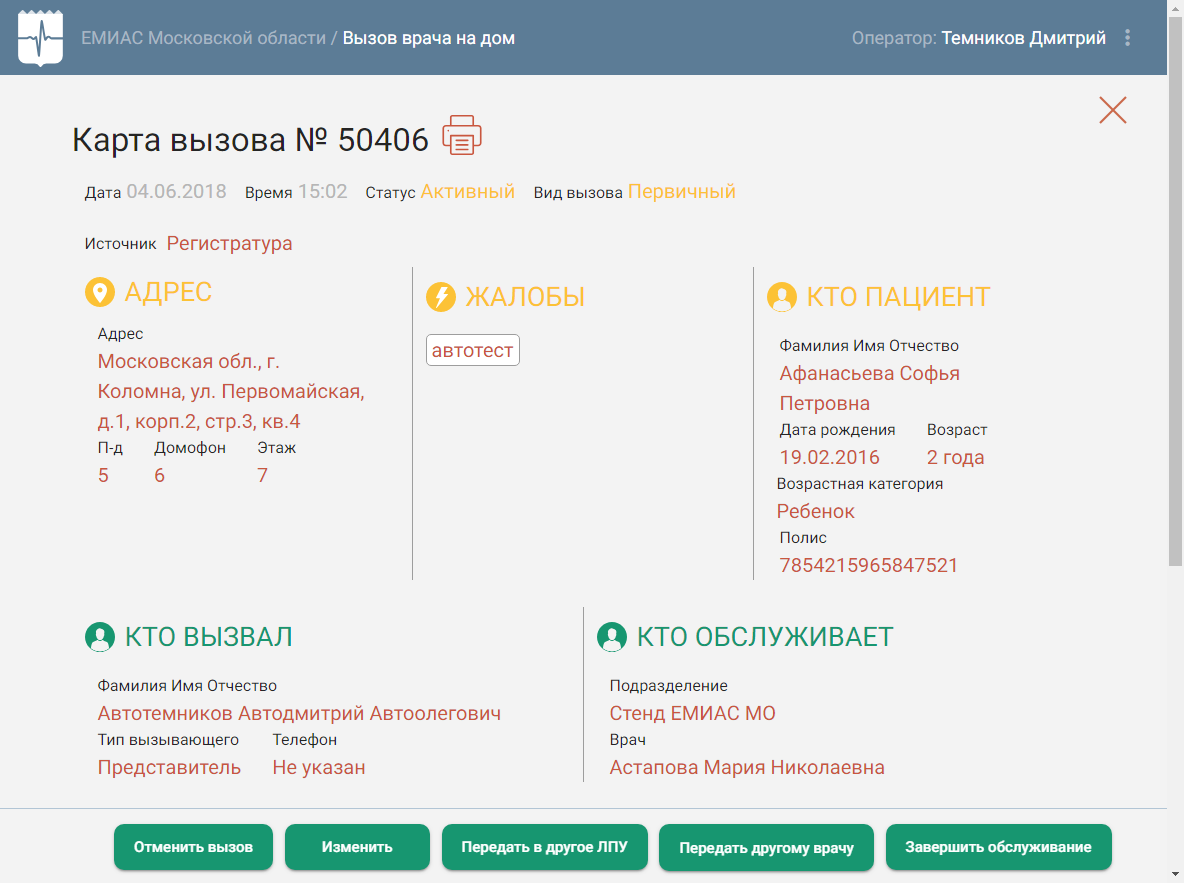
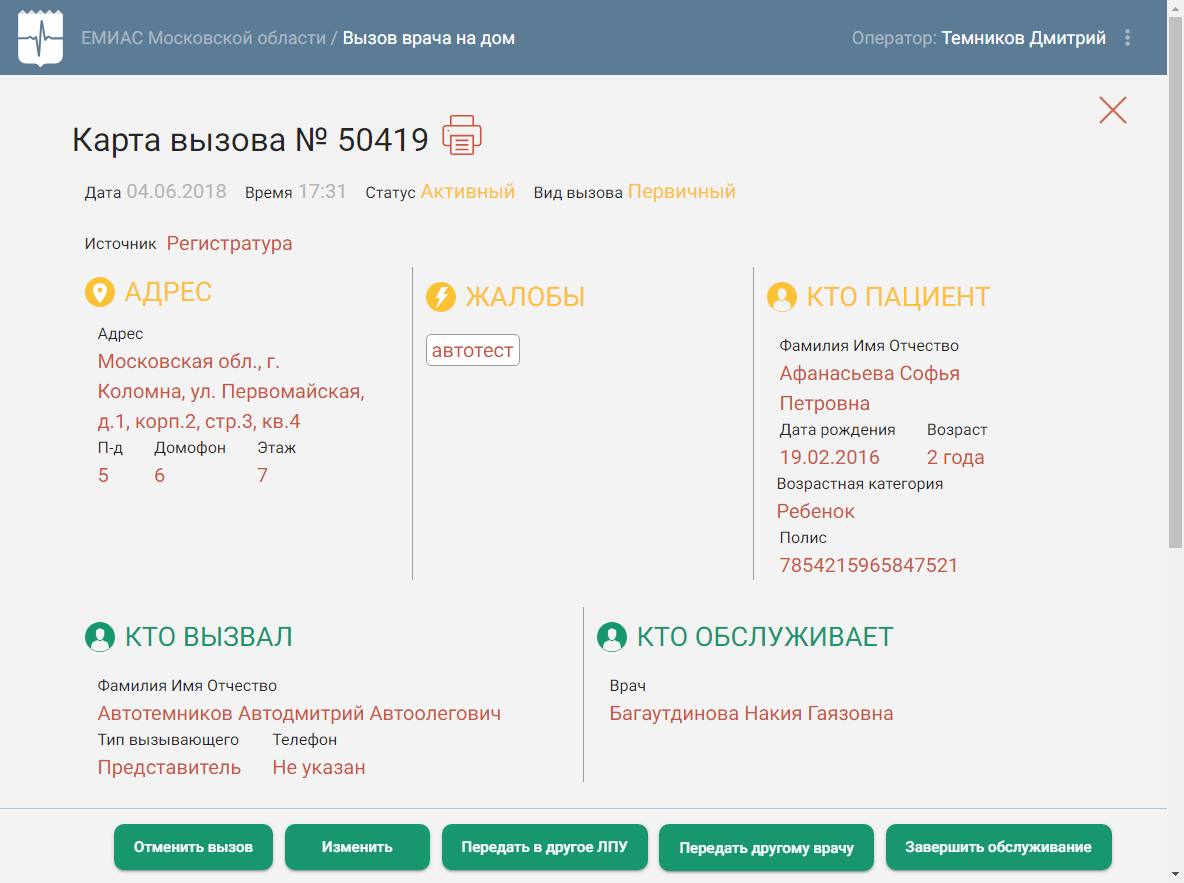
автотест создание вызова

Changed region(s): [[0.5, 0.7644, 0.75, 0.8867], [0.3125, 0.1529, 0.375, 0.1835], [0.9688, 0.6116, 1.0, 0.6421]]

diff --git a/src/test/reg/RegressCallDoctor.java b/src/test/reg/RegressCallDoctor.java
@@ -5,15 +5,15 @@ public class RegressCallDoctor extends TestBase {
     String doctorName;
     String doctorFam;
 
-    @Test(groups = "CallDoctorBase")
+    @Test(groups = "CallDoctorRegress")
     public void testCallRegistratura() throws Exception {
-        page.callDoctorPage().createCallRegistratura();
+        page.createCallPage().createCallRegistratura();
         page.fullCardPage().verifyCallRegistr();
     }
 
     @Test(groups = "CallDoctorBase")
     public void testCallMkab() throws Exception {
-        page.callDoctorPage().createCallMkab();
+        page.createCallPage().createCallMkab();
         page.fullCardPage().verifyCallMkab();
     }
 
@@ -27,28 +27,21 @@ public class RegressCallDoctor extends TestBase {
         page.fullCardPage().verifyAppoindPoctor(doctorFam);
     }
 
-    @Test(groups = "CallDoctorBase", dependsOnMethods = {"testCallMkab"})
+    @Test(groups = "CallDoctorBase", dependsOnMethods = {"testAppoindDoctor"})
     public void testCompleteService() throws Exception {
         page.fullCardPage().completeService();
         page.fullCardPage().verifyCompleteCall(doctorFam);
-
-
 /**
  * попросил ваню дать уникальный id на кнопку завершить обслуживание и кнопку отмены
- * */
-
-//        String doctorName = page.setDoctorPage().getDoctorName(1);
-//        page.setDoctorPage().appendDoctor(doctorName);
-//        String doctorFam = page.manageShedule().getSecondName(doctorName);
-//        page.callDoctorPage().verifyAppoindPoctor(doctorFam);
+ **/
     }
 
     @Ignore
     @Test(invocationCount = 20)
     public void testCallSMP() throws Exception {
-        page.callDoctorPage().createCallSMP();
+        page.createCallPage().createCallSMP();
         page.fullCardPage().verifyCallSMP();
-        page.callDoctorPage().closeRecordPage();
+        page.createCallPage().closeRecordPage();
     }
 
     @Ignore
@@ -76,13 +69,13 @@ public class RegressCallDoctor extends TestBase {
     @Ignore
     @Test(dependsOnMethods = {"testCallRegistratura"})
     public void testСancelRecord() {
-        page.callDoctorPage().cancelRecord();
-        page.callDoctorPage().verifyCancelOnDashbord();
+        page.createCallPage().cancelRecord();
+        page.createCallPage().verifyCancelOnDashbord();
     }
 
     @Ignore
     @Test(dependsOnMethods = {"testCallRegistratura"})
     public void closeBtn() {
-        page.callDoctorPage().closeRecordPage();
+        page.createCallPage().closeRecordPage();
     }
 }

diff --git a/src/test/reg/RegressShedule.java b/src/test/reg/RegressShedule.java
@@ -31,6 +31,7 @@ public class RegressShedule extends TestBase {
         page.manageShedule().createShedule();
 
         page.manageShedule().verifyCreatedShedule();
+        page.homePage().logoHomeBtn();
     }
 
     @Test//KEYS 1.2
@@ -48,6 +49,7 @@ public class RegressShedule extends TestBase {
         page.doctorMethods().selectDoctor(firstDoctor);
 
         page.manageShedule().verifyCreatedShedule();
+        page.homePage().logoHomeBtn();
     }
 
     @Test//KEYS 1.3
@@ -57,6 +59,7 @@ public class RegressShedule extends TestBase {
         page.manageShedule().setNotReceiveDays(firstDoctor);
 
         page.manageShedule().verifyNotReceiveDays();
+        page.homePage().logoHomeBtn();
     }
 
     @Test//KEYS 1.4
@@ -78,6 +81,7 @@ public class RegressShedule extends TestBase {
         page.manageShedule().verifyCreatedShedule();
         page.manageShedule().deleteShedule();
         page.manageShedule().verifyDeletedShedle();
+        page.homePage().logoHomeBtn();
     }
 
     @Test//KEYS 1.5
@@ -113,5 +117,6 @@ public class RegressShedule extends TestBase {
         page.doctorMethods().selectDoctor(second_doctor_fullname);
 
         page.transferRecords().verifyTransferShedule();
+        page.homePage().logoHomeBtn();
     }
 }

diff --git a/src/main/java/pages/Pages.java b/src/main/java/pages/Pages.java
@@ -3,6 +3,7 @@ package pages;
 import org.openqa.selenium.WebDriver;
 import org.openqa.selenium.support.PageFactory;
 import pages.calldoctor.CreateCallPage;
+import pages.calldoctor.DashboardPage;
 import pages.calldoctor.FullCardPage;
 import pages.calldoctor.SetDoctorPage;
 import pages.other.CreateMedicalCard;
@@ -52,7 +53,7 @@ public class Pages extends BasePage {
         return doctorMethods;
     }
 
-    public CreateCallPage callDoctorPage() {
+    public CreateCallPage createCallPage() {
         CreateCallPage createCallPage = PageFactory.initElements(driver, CreateCallPage.class);
         return createCallPage;
     }
@@ -65,7 +66,12 @@ public class Pages extends BasePage {
     public FullCardPage fullCardPage() {
         FullCardPage fullCardPage = PageFactory.initElements(driver, FullCardPage.class);
         return fullCardPage;
-}
+    }
+
+    public DashboardPage dashboardPage() {
+        DashboardPage dashboardPage = PageFactory.initElements(driver, DashboardPage.class);
+        return dashboardPage;
+    }
 }
 
 //    public steps.AdmissionSchedule admissionSchedule() {

diff --git a/src/main/java/pages/calldoctor/SetDoctorPage.java b/src/main/java/pages/calldoctor/SetDoctorPage.java
@@ -28,6 +28,9 @@ public class SetDoctorPage extends BasePage {
     @FindBy(xpath = "//span[contains(.,'Назначить на сегодня')]")
     WebElement appenOnThisDay;
 
+    @FindBy(xpath = "//span[contains(.,'ЗАГРУЗКА СЕГОДНЯ')]")
+    WebElement loadCurrently;
+
     public String getDoctorName(int a) {
         JSWaiter.waitJQueryAngular();
         new WebDriverWait(driver, 30).until((ExpectedCondition<Boolean>) wd ->
@@ -35,6 +38,9 @@ public class SetDoctorPage extends BasePage {
         WebElement dynamicElement = (new WebDriverWait(driver, 20))
                 .until(ExpectedConditions.presenceOfElementLocated(By
                         .xpath("//div[contains(., 'ЗАГРУЗКА СЕГОДНЯ')]")));
+
+        click(loadCurrently);
+
 
         String doctorName = null;
         List<WebElement> doctorList = driver

diff --git a/src/main/java/pages/calldoctor/DashboardPage.java b/src/main/java/pages/calldoctor/DashboardPage.java
@@ -1,7 +1,24 @@
 package pages.calldoctor;
 
-/**
- * Created by DTemnikov on 28.05.2018.
- */
-public class DashboardPage {
+import org.openqa.selenium.WebDriver;
+import org.openqa.selenium.WebElement;
+import org.openqa.selenium.support.FindBy;
+import pages.BasePage;
+
+public class DashboardPage extends BasePage {
+
+    @FindBy(xpath = "//mat-icon[contains(text(),'more_vert')]")
+    WebElement exitToMis;
+
+    @FindBy(xpath = "//*[contains(text(),'Выход')]")
+    WebElement exitBtn;
+
+    public DashboardPage(WebDriver driver) {
+        super(driver);
+    }
+
+    public void exitToMis() {
+        click(exitToMis);
+        click(exitBtn);
+    }
 }

diff --git a/src/main/java/pages/calldoctor/FullCardPage.java b/src/main/java/pages/calldoctor/FullCardPage.java
@@ -16,6 +16,11 @@ public class FullCardPage extends BasePage {
     }
 
     public void appoindDoctor() throws InterruptedException {
+        WebElement dynamicElement = (new WebDriverWait(driver, 20))
+                .until(ExpectedConditions.presenceOfElementLocated(By
+                        .xpath("//div[contains(., 'Карта вызова')]")));
+
+
         WebElement appoindBtns = driver.findElement(By.xpath("//span[contains(text(),'Назначить')]"));
         wait.until(ExpectedConditions.elementToBeClickable(appoindBtns));
         appoindBtns.click();

diff --git a/src/main/java/pages/HomePage.java b/src/main/java/pages/HomePage.java
@@ -14,7 +14,7 @@ public class HomePage extends BasePage{
     @FindBy(xpath = "//div[@id='top']/a[2]/span")
     WebElement homePageBtn;
 
-    @FindBy(xpath = "//span[contains(text(),'Расписание приема')]")
+    @FindBy(xpath = "//span[contains(text(),'Расписание приёма')]")
     WebElement admissionScheduleBtn;
 
     @FindBy(xpath = "//span[contains(text(),'Перенос записей')]")

diff --git a/src/main/java/pages/shedule/ManageShedule.java b/src/main/java/pages/shedule/ManageShedule.java
@@ -84,7 +84,7 @@ public class ManageShedule extends BasePage {
         btn_save_schedule.click();                   //нажимаем кнопку сохранить
         keyboard.pressKey(Keys.ENTER);
         Waiter.waitAllEmias();
-        Waiter.waitAllEmias();
+//        Waiter.waitAllEmias();
     }
 
     public void setNotReceiveDays(String firstDoctor) {

diff --git a/src/main/java/pages/calldoctor/CreateCallApi.java b/src/main/java/pages/calldoctor/CreateCallApi.java
@@ -1,0 +1,14 @@
+package pages.calldoctor;
+
+import org.openqa.selenium.WebDriver;
+import pages.BasePage;
+
+public class CreateCallApi extends BasePage {
+    public CreateCallApi(WebDriver driver) {
+        super(driver);
+    }
+
+    public void createCallSMP() {
+
+    }
+}

diff --git a/src/test/reg/TestBase.java b/src/test/reg/TestBase.java
@@ -76,9 +76,9 @@ public abstract class TestBase {
         pages.utilities.SwitchToPage.switchToPage();
     }
 
-    @AfterGroups
+    @AfterGroups("CallDoctorBase")
     public void afterGroups() {
-
+        page.dashboardPage().exitToMis();
     }
 
     @BeforeMethod
